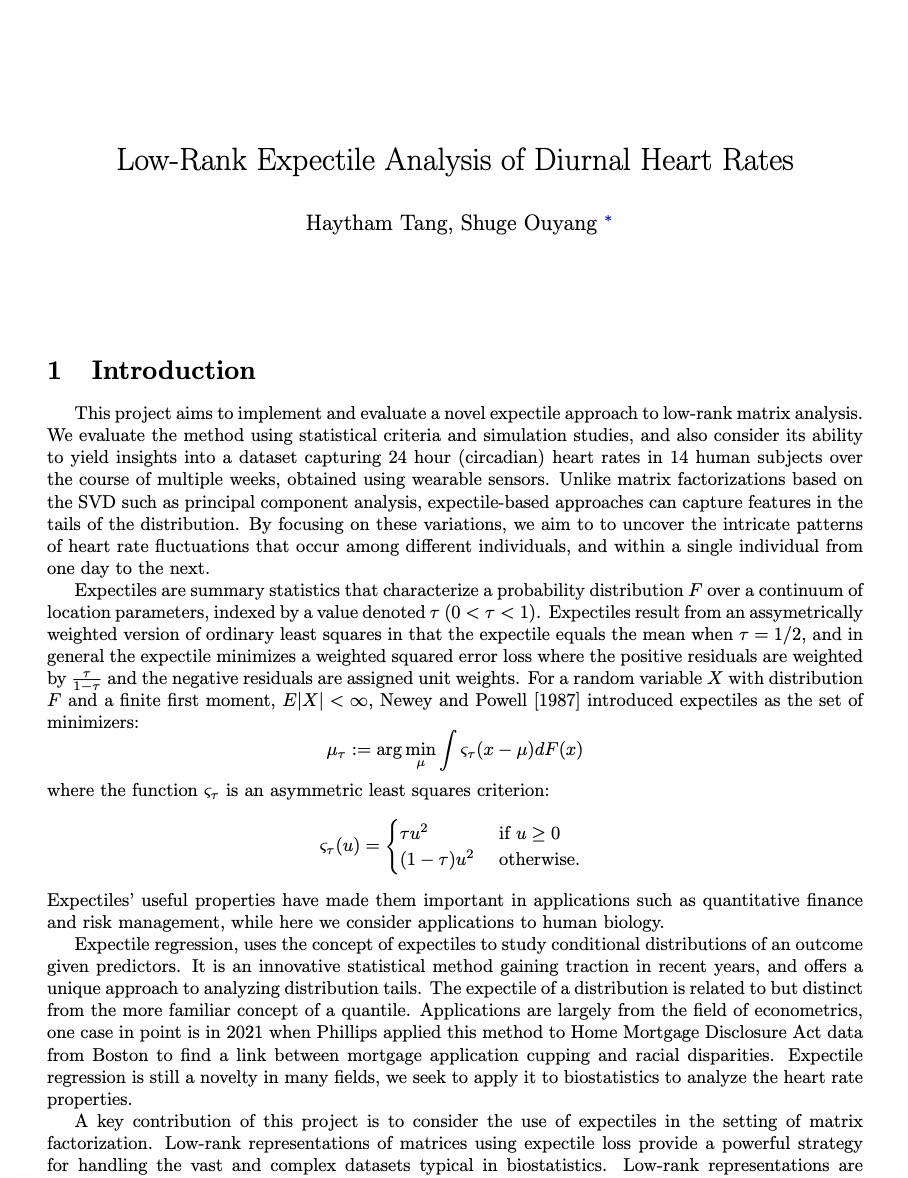
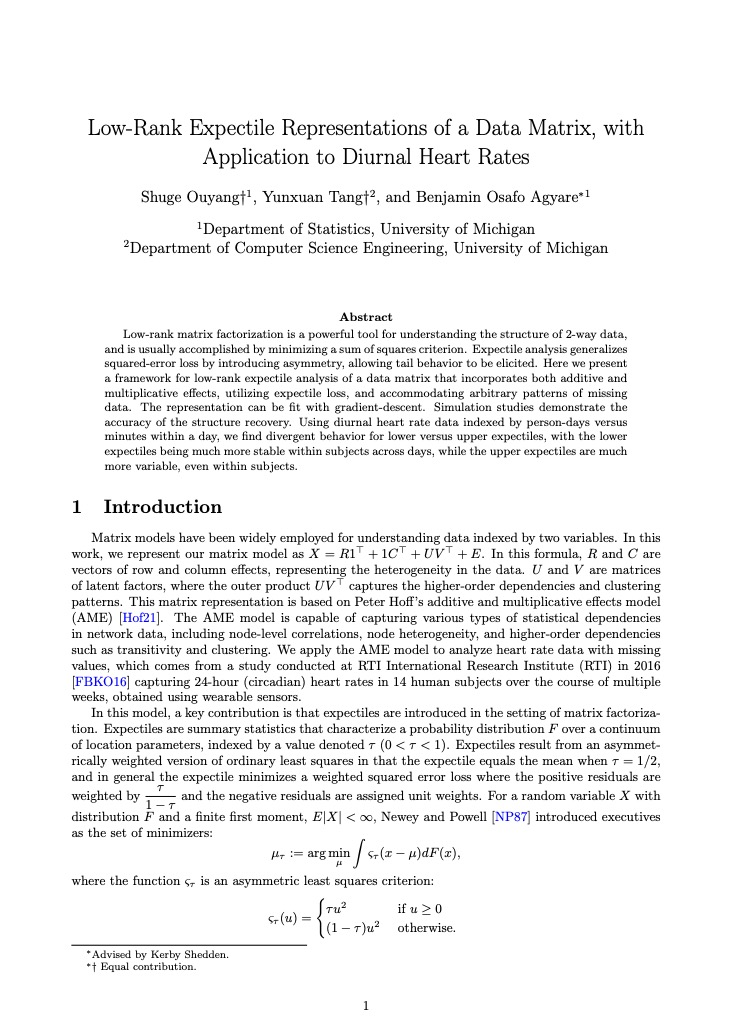
Add LRE arXiv link

Changed region(s): [[0.0301, 0.2785, 0.9631, 1.0], [0.1204, 0.0928, 0.8728, 0.2476]]

diff --git a/src/project_components/Expectile.jsx b/src/project_components/Expectile.jsx
@@ -14,10 +14,10 @@ const Expectile = ({ closeComponent }) => {
       <h3 className="subtitle">First Page of Paper</h3>
       <div className="text-part">
         <h3 className="headline">
-          Low-Rank Expectile Analysis of Diurnal Heart Rates
+    <a href="https://arxiv.org/abs/2412.04765" target="_blank" rel="noopener noreferrer">Low-Rank Expectile Representations of a Data Matrix, with Application to Diurnal Heart Rates </a>
         </h3>
         <h4 className="time-info">
-          Jan. 2024 — May 2024 (Currnetly Furthering & Solidifying Work)
+          Jan. 2024 — Present (Currnetly Furthering & Solidifying Work)
         </h4>
 
         <h4 className="description">
